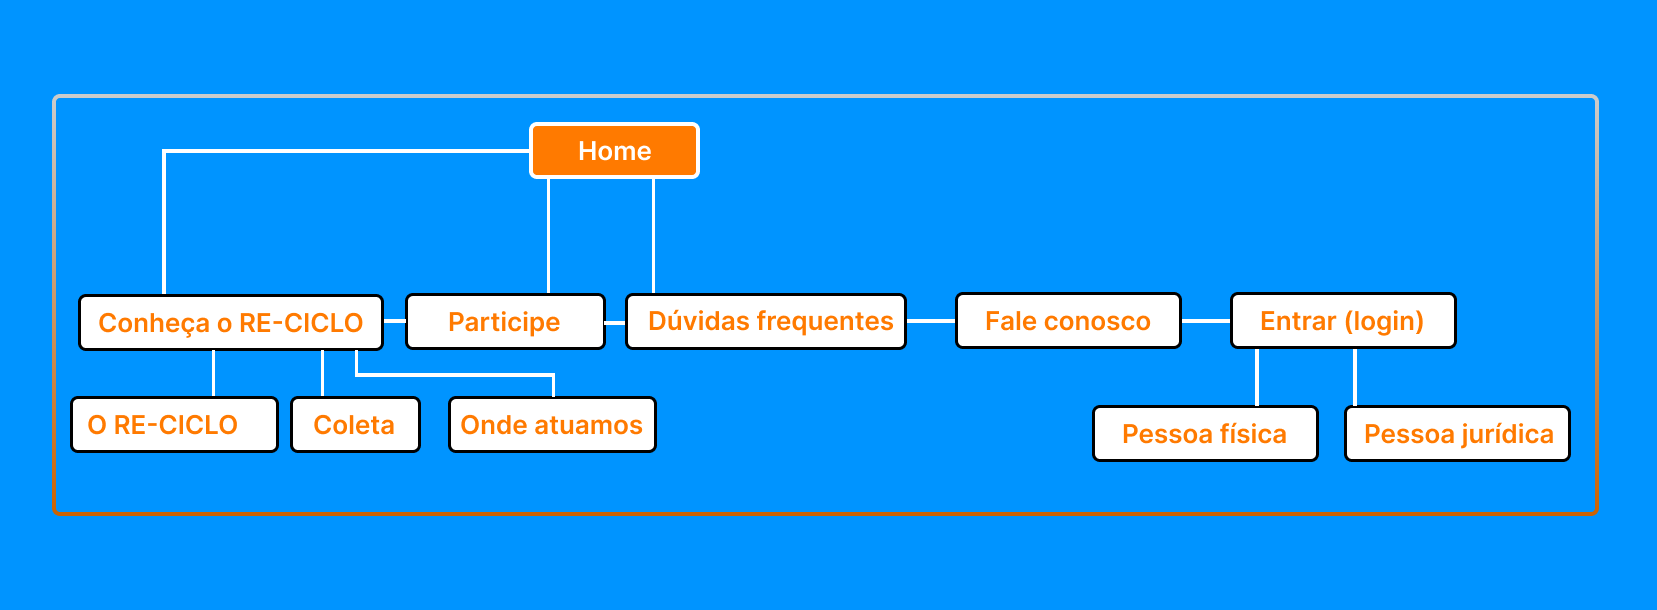
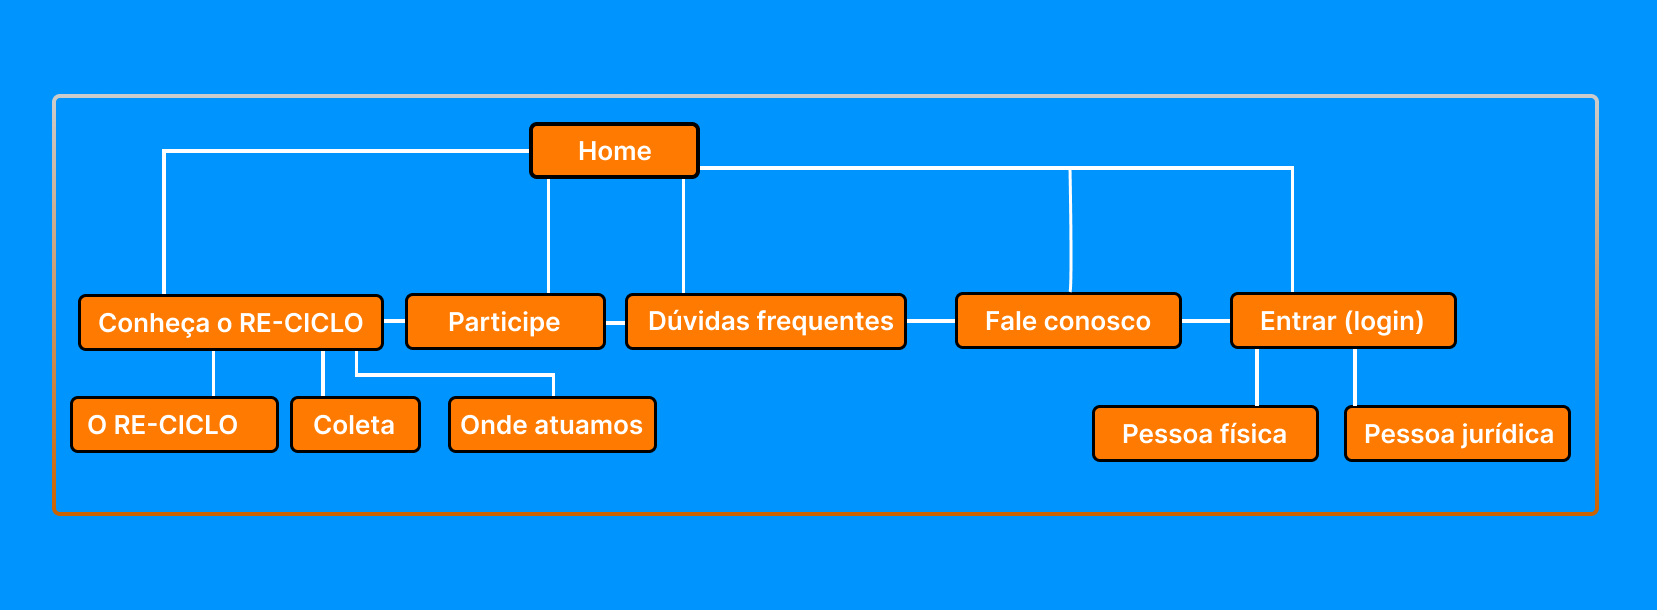
Finalizando seçaõ de reciclo

diff --git a/pages/reciclo.html b/pages/reciclo.html
@@ -192,10 +192,7 @@
             <div class="col-lg-12">
                 <h2 class="section-label-main text-uppercase mb-4">O usuário</h2>
                 <p class="project-intro-text mb-4">
-                    Para construir uma solução que realmente resolva problemas de inclusão digital e empregabilidade, o design foi fundamentado em uma fase densa de UX Research. Através de técnicas de benchmark competitivo, entrevistas em profundidade e mapas de empatia, pudemos mergulhar nas barreiras psicológicas e técnicas enfrentadas por jovens em transição de carreira.
-                </p>
-                <p class="project-intro-text mb-4">
-                    Esses processos permitiram consolidar padrões de comportamento e necessidades que culminaram na definição de nossa persona principal: o Péricles. Ele representa o perfil acadêmico-analítico que busca clareza e um roteiro linear para ingressar no mercado profissional. Abaixo, detalho como essa jornada de descoberta moldou as diretrizes do produto.
+                    Para construir O sucesso do Re-ciclo depende da harmonia entre três atores fundamentais. Para projetar uma solução que realmente transformasse a gestão de resíduos em Fortaleza, mergulhamos no dia a dia do Afonso (a força operacional que busca dignidade), do Marcelo (o cidadão que busca conveniência) e da Júlia (o negócio que busca eficiência logística). O desafio do design foi criar uma interface que eliminasse a fricção entre esses perfis, garantindo que a tecnologia atuasse como o elo invisível que transforma descarte em valor social e ambiental.
                 </p>
             <img src="../images/reciclo_img/Proto-persona1.png" class="img-fluid w-100" alt="Estrutura">
             <img src="../images/reciclo_img/Proto-persona2.png" class="img-fluid w-100" alt="Estrutura">
@@ -220,10 +217,7 @@
             <div class="col-lg-12">
                 <h2 class="section-label-main text-uppercase mb-4">Estrutura do <br> projeto</h2>
                 <p class="project-intro-text mb-4">
-                    Para organizar a navegação da landing page e garantir uma experiência fluida, foi desenvolvido um sitemap que define as principais páginas e o fluxo de interação do usuário. O objetivo foi simplificar o acesso às informações mais relevantes — Quem Somos, Dúvidas Frequentes e Fale Conosco — permitindo que o visitante encontre facilmente o que procura sem sobrecarga de conteúdo.
-                </p>
-                <p class="project-intro-text mb-4">
-                    O fluxograma representa o caminho ideal do usuário desde o acesso à página inicial até a conclusão de sua navegação nas seções principais. A ideia é oferecer uma jornada clara, objetiva e intuitiva, com poucos cliques entre o ponto de entrada e o objetivo final (obter informações ou entrar em contato).
+                    O sitemap do Re-ciclo foi projetado para simplificar a jornada do descarte sustentável. Estruturamos a navegação em módulos que primeiro educam o usuário ("Conheça") para depois facilitar a ação direta ("Participe"). A segmentação entre Pessoa Física e Jurídica no fluxo de acesso é fundamental para garantir que as funcionalidades operacionais sejam personalizadas para cada perfil, otimizando a logística de coleta e a experiência de gestão de resíduos.
                 </p>
             <img src="../images/reciclo_img/sitemap_reciclo.png" class="img-fluid w-100" alt="Estrutura">
 
@@ -250,16 +244,8 @@
             <div class="col-lg-12">
                 <h2 class="section-label-main text-uppercase mb-4">Design de interface <br> do usuário</h2>
                 <p class="project-intro-text mb-4">
-                    O style guide foi desenvolvido com o objetivo de garantir consistência visual e uma identidade moderna para a plataforma Eleveit. A escolha do degradê azul–verde transmite tecnologia e acessibilidade, reforçando a missão do projeto de conectar jovens ao futuro profissional.
+                    O veredito visual do Re-ciclo é a modernização da sustentabilidade. Através de uma tipografia amigável e uma paleta cromática diversificada, criamos uma interface que comunica energia e responsabilidade social. O foco esteve na criação de uma linguagem visual proprietária, onde a iconografia detalhada e os componentes arredondados convidam o usuário à ação, fortalecendo a cultura da economia circular através de um design centrado no ser humano e na eficiência operacional.
                 </p>
-                <p class="project-intro-text mb-4">
-                    <ul class="project-intro-text mb-4">
-                        <li class="project-intro-text mb-4"> <strong>Tipografia:</strong> A família Inter foi escolhida por seu excelente desempenho em telas digitais, legibilidade e estilo contemporâneo. As variações de peso e tamanho criam uma hierarquia clara entre títulos, subtítulos e textos.</li>
-                         <li class="project-intro-text mb-4"> <strong>Botões e Cards: </strong> Foram definidos dois estilos de botão (solid e outline) para criar contraste entre ações primárias e secundárias. Os cards seguem o mesmo padrão visual, utilizando cantos arredondados e sombras sutis para transmitir modernidade e profundidade.</li>
-                          <li class="project-intro-text mb-4"> <strong>Iconografia: </strong>  Ícones minimalistas e universais reforçam a comunicação visual da interface, priorizando clareza e acessibilidade.</li>
-                    </ul>
-                </p>
-                
             <img src="../images/reciclo_img/sytleguide_reciclo.png" class="img-fluid w-100" alt="Estrutura">
 
                 
@@ -282,7 +268,7 @@
                 <h2 class="section-label-main text-uppercase mb-4">Wireframe de alta <br>
                 fidelidade</h2>
                 <p class="project-intro-text mb-5">
-                    Nesta etapa, a identidade visual da Eleveit ganhou vida através de um Design System coeso. A escolha da tipografia Inter não foi apenas estética; sua legibilidade excepcional em telas digitais garante que o usuário absorva as informações sem fadiga visual.
+                    A etapa de alta fidelidade para desktop foi projetada para ser o centro de controle da reciclagem em Fortaleza. O foco principal foi a consolidação de dados e transparência: criamos dashboards que exibem métricas reais de impacto social e ambiental (tonelagens coletadas e renda gerada).
                 </p>
             </div>
         </div>
@@ -303,13 +289,8 @@
             <div class="col-lg-12">
                 <h2 class="section-label-main text-uppercase mb-4">Wireframe de alta <br> fidelidade: mobile</h2>
                 <p class="project-intro-text mb-4">
-                    Como sabemos que o conceito de mobile first hoje é essencial, o foco no design responsivo foi prioridade. No mobile, a interface foi otimizada para navegação com um único polegar, mantendo elementos interativos em zonas de fácil alcance.
+                   O design mobile do Re-ciclo foi concebido sob a premissa da baixa fricção e usabilidade tátil. Para o cidadão comum, o fluxo de agendamento foi otimizado para ser concluído em poucos toques, eliminando barreiras cognitivas.
                 </p>
-                <p class="project-intro-text mb-4">
-                    Adaptamos a densidade de informações para evitar sobrecarga em telas menores, garantindo que o fluxo de inscrição e os conteúdos de educação  permaneçam fluidos e acessíveis em qualquer dispositivo. O resultado é uma interface moderna, leve e tecnicamente escalável, pronta para proporcionar um handoff sem atritos para o desenvolvimento.
-                </p>
-            
-                
             <img src="../images/reciclo_img/wireframe_mobile.png" class="img-fluid w-100" alt="Estrutura">
 
                 
